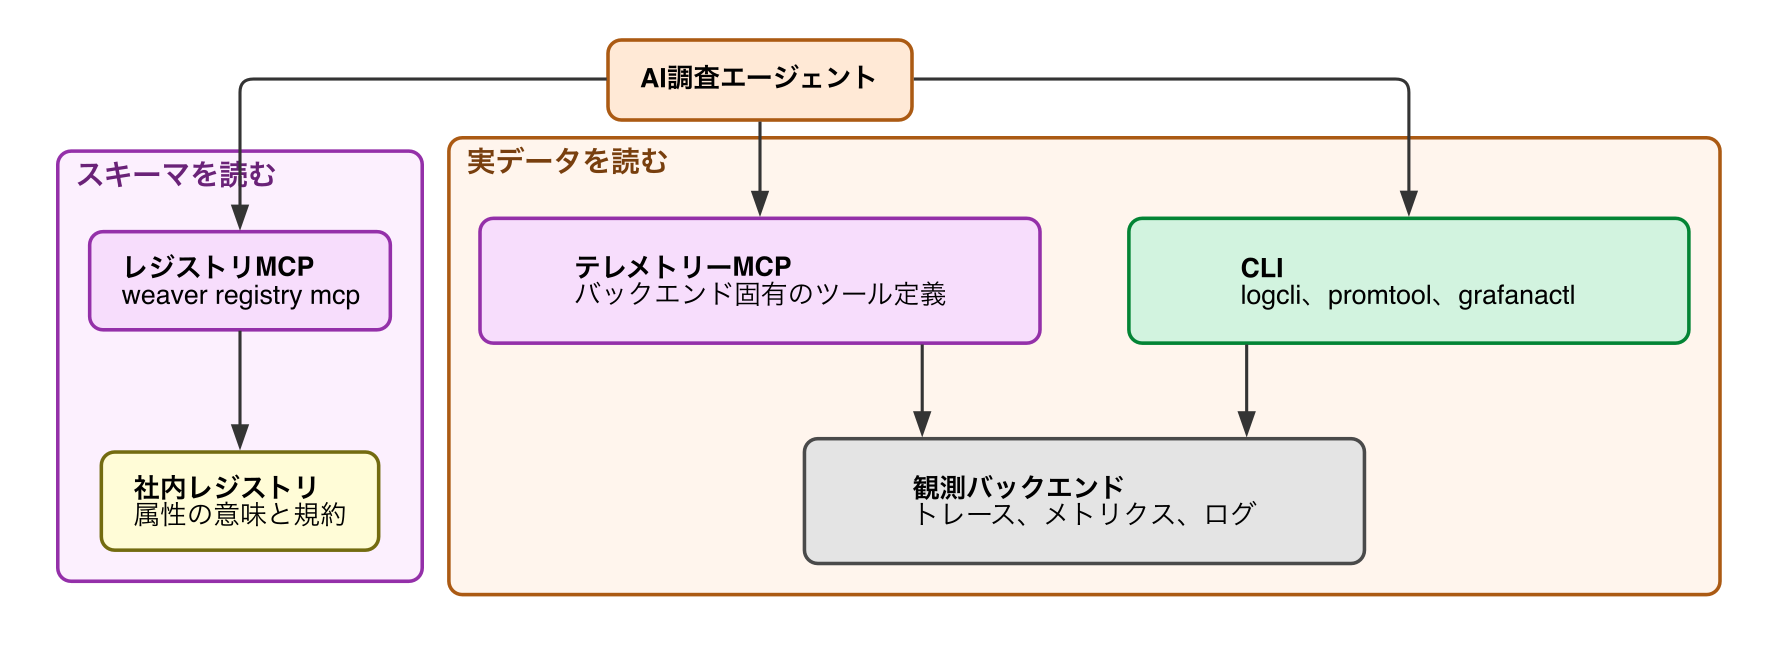
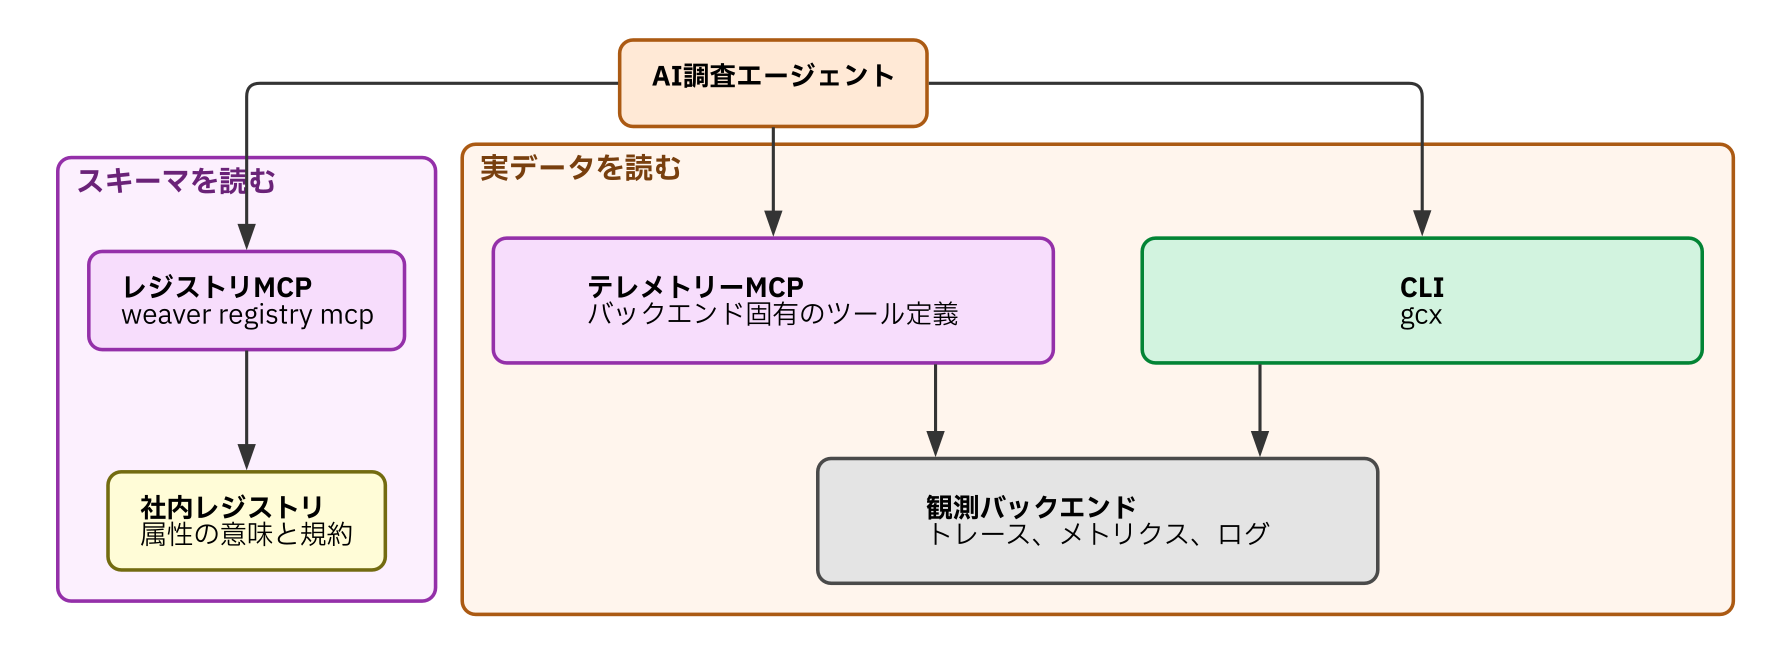
docs(otel): レビュー指摘を反映する
- はじめに: 三本柱対比図を中央集権モデルの限界節へ移動し、図番号を振り直す
- はじめに: 三本柱の表をセル内箇条書き（<br>区切り）に変更する
- Collectorフリート: 図中のOpAMPサーバーの説明を「最後の配達区間」から
  「最後のデリバリー区間」へ変更する
- AI駆動運用: CLIの説明をlogcli/promtool/grafanactlの列挙からgcxのみに統一する

Changed region(s): [[0.0309, 0.0612, 0.9899, 0.9174], [0.6805, 0.3976, 0.8971, 0.4893]]

diff --git a/books/observability-platform-with-otel/00-introduction.md b/books/observability-platform-with-otel/00-introduction.md
@@ -22,6 +22,9 @@ title: "はじめに"
 
 このモデルは、組織が小さいうちは機能します。しかし、中央チームの処理能力が変わらないまま、依頼はチーム数とサービス数に応じて増えます。レビュー待ちを避けるために各チームが独自の設定を使い始めると、統一のために置いた中央チームが、かえって不統一を増やします。統制を強めれば待ち時間が延び、緩めれば一貫性を保てません。
 
+![中央集権モデルとセルフサービスモデルの対比](/images/20260926-central-vs-selfservice.png)
+*図1　矢印は依頼先を表します。中央集権モデルでは依頼が中央チームに集中します。セルフサービスモデルでは各チームがプラットフォームチームの配布物を利用するため、個別依頼の待ち行列を減らせます。*
+
 ## セルフサービスという考え方
 
 Platform Engineeringでは、プラットフォームチームの仕事を、個別の依頼の処理から、各チームが自力で適切に設定できる仕組みの提供へ変えます。本書では、この提供形態を**セルフサービス**と呼びます。
@@ -39,20 +42,20 @@ Platform Engineeringでは、プラットフォームチームの仕事を、個
 本書は、OpenTelemetryを使った実装の経験を前提としません。議論に必要なのは、テレメトリーが生まれてから保存されるまでの一連の流れです。
 
 ![OpenTelemetryの最小構成](/images/20260926-minimal-otel.png)
-*図1　実線の矢印はテレメトリーの流れ、点線はサービス間のリクエストを表します。リクエストにはトレースの文脈が載ります。計装されたサービスが作ったテレメトリーは、OTLPでCollectorを経由してバックエンドに届きます。*
+*図2　実線の矢印はテレメトリーの流れ、点線はサービス間のリクエストを表します。リクエストにはトレースの文脈が載ります。計装されたサービスが作ったテレメトリーは、OTLPでCollectorを経由してバックエンドに届きます。*
 
 **計装**（instrumentation）は、アプリケーションにテレメトリーを生成させる仕組みです。主なテレメトリーには、リクエスト処理の流れを記録する**トレース**、数値の推移を記録する**メトリクス**、処理中の出来事を記録する**ログ**があります。
 
 トレースを構成する単位が**スパン**です。1つのスパンは、あるサービスでの処理や外部呼び出しなど、1つの作業区間の開始時刻、終了時刻、属性を記録します。呼び出し元のスパンを親としてつなぐことで、1つのトレースを構成します。冒頭では、次のつながりが在庫サービスの手前で切れていました。
 
 ![破断した分散トレースのウォーターフォール](/images/20260926-broken-trace-waterfall.png)
-*図2　フロントエンドから注文サービスまではトレースAとしてつながっています。在庫サービスのスパンだけがトレースBに分かれ、親子関係が破断しています。*
+*図3　フロントエンドから注文サービスまではトレースAとしてつながっています。在庫サービスのスパンだけがトレースBに分かれ、親子関係が破断しています。*
 
 各サービスは自分のスパンを送信し、保存先が親子関係をもとにトレースを組み立てます。テレメトリーには、送信元を表す**リソース（resource）属性**が付きます。サービス名を表す `service.name` や環境の識別子もリソース属性です。
 
 テレメトリーを送り出す部品を **エクスポーター**（exporter） と呼びます。エクスポーターがOTLPという標準プロトコルで送信し、Collectorという中継プロセスを経て、保存と可視化を担うバックエンドに届きます。
 
-図1の点線は、冒頭の分断に関係する通信を表します。分散トレースでは、サービスAがサービスBを呼ぶときに、現在のトレースを識別する文脈をリクエストに載せて渡します。この受け渡しを担う部品が **プロパゲーター（propagator）** です。プロパゲーターが設定されていないサービスでは親子関係を引き継げず、別のトレースとして記録されます。
+図2の点線は、冒頭の分断に関係する通信を表します。分散トレースでは、サービスAがサービスBを呼ぶときに、現在のトレースを識別する文脈をリクエストに載せて渡します。この受け渡しを担う部品が **プロパゲーター（propagator）** です。プロパゲーターが設定されていないサービスでは親子関係を引き継げず、別のトレースとして記録されます。
 
 本書では個々のAPIの使い方は説明しません。以降では、計装から保存までのどこを変更するのかという対応関係を使って、基盤の構成を説明します。
 
@@ -67,18 +70,15 @@ Platform Engineeringでは、プラットフォームチームの仕事を、個
 3つ目はセマンティック規約のガバナンスです。属性の名前と意味をレジストリに定義し、OpenTelemetry Weaverで検査、コード生成、実際のテレメトリーとの照合を自動化します（6章）。これにより、冒頭の `prod` と `production` のような表記揺れを検出します。
 
 ![3本柱の全体像](/images/20260926-three-pillars.png)
-*図2　実線の矢印はテレメトリーの流れ、点線はレジストリから生成した成果物が届く先を表します。三本柱が計装から保存までのどこを変更するかを示します。*
-
-![中央集権モデルとセルフサービスモデルの対比](/images/20260926-central-vs-selfservice.png)
-*図3　矢印は依頼先を表します。中央集権モデルでは依頼が中央チームに集中します。セルフサービスモデルでは各チームがプラットフォームチームの配布物を利用するため、個別依頼の待ち行列を減らせます。*
+*図4　実線の矢印はテレメトリーの流れ、点線はレジストリから生成した成果物が届く先を表します。三本柱が計装から保存までのどこを変更するかを示します。*
 
 セルフサービスの設計では、誰が何を決めるのかを明示します。次の表は、三本柱ごとに、プラットフォームが配るもの、開発チームが決めること、基盤が強制すること、標準構成から逸脱する方法を整理したものです。表の語は各章で説明するので、ここでは全体の形だけを見てください。
 
 | 柱 | プラットフォームが配るもの | 開発チームが決めること | 基盤が強制すること | 逸脱の方法 |
 |---|---|---|---|---|
-| 計装 | SDKディストリビューション、ゼロコード計装、デフォルト値 | 業務スパンと属性、任意で記録するデータ | 最低限のリソース属性とトレース文脈の伝搬 | 標準環境変数と明示設定 |
-| Collector | バイナリ、パイプライン、更新経路 | 許可された範囲の追加要件 | 認証、個人情報と機密情報の削除、容量制御 | 分離した追加パイプラインまたは別Collector |
-| 規約 | レジストリ、生成物、検査 | ドメイン属性の意味 | 名前空間、型、互換性 | レジストリへの変更PR |
+| 計装 | ・SDKディストリビューション<br>・ゼロコード計装<br>・デフォルト値 | ・業務スパンと属性<br>・任意で記録するデータ | ・最低限のリソース属性<br>・トレース文脈の伝搬 | ・標準環境変数<br>・明示設定 |
+| Collector | ・バイナリ<br>・パイプライン<br>・更新経路 | ・許可された範囲の追加要件 | ・認証<br>・個人情報と機密情報の削除<br>・容量制御 | ・分離した追加パイプライン<br>・別Collector |
+| 規約 | ・レジストリ<br>・生成物<br>・検査 | ・ドメイン属性の意味 | ・名前空間<br>・型<br>・互換性 | ・レジストリへの変更PR |
 
 三本の柱は相互に依存します。ディストリビューションはレジストリから生成した属性定数を同梱し、Collectorは転送中のデータを規約に照らして処理します。レジストリの変更は、ディストリビューションとCollector設定の配布経路を通じて各環境へ届きます。この依存関係まで含めて、Platform Engineeringとして設計します。
 

diff --git a/books/observability-platform-with-otel/70-ai_driven_operations.md b/books/observability-platform-with-otel/70-ai_driven_operations.md
@@ -67,7 +67,7 @@ GenAI規約の専用リポジトリには、[MCPのセマンティック規約](
 
 調査用のAIエージェントには読み取り権限だけを与え、テナント分離はバックエンドの権限で強制し、アクセスを監査ログへ残します。人間と同じデータアクセス経路を使うことで、既存の認可と監査を再利用できます。
 
-MCPサーバー以外に、CLIツールもアクセス手段になります。[logcli](https://grafana.com/docs/loki/latest/query/logcli/)はLokiへLogQLのクエリを発行し、[promtool](https://github.com/prometheus/prometheus/tree/main/cmd/promtool)はPromQLの検証とクエリの実行を行い、[grafanactl](https://github.com/grafana/grafanactl)はダッシュボードなどのリソースを操作します。
+MCPサーバー以外に、CLIツールもアクセス手段になります。Grafanaの[gcx](https://grafana.com/docs/grafana/latest/as-code/observability-as-code/grafana-cli/gcx/)は、1つのコマンドでメトリクス、ログ、トレース、プロファイルを検索でき、ダッシュボードなどのリソースも操作できます。出力はJSONやYAMLで受け取れるため、AIエージェントが結果を解析しやすくなります。
 
 CLIには、MCPサーバーと比べて3つの利点があります。
 
@@ -75,7 +75,7 @@ CLIには、MCPサーバーと比べて3つの利点があります。
 - **人間とAIエージェントが同じコマンドを使える。** AIエージェントが発行したコマンドをそのまま人間が再実行して確認できる。MCPのツール呼び出しは、人間が手元で再現しにくい
 - **シェルを扱えるAIエージェントなら追加の実装がいらない。** コーディングエージェントはコマンド実行の機能を持っているため、接続の設定なしに使い始められる
 
-一方、出力が人間向けの整形である点、ページングや部分取得を自分で組み立てる必要がある点は、MCPサーバーのほうが扱いやすくなります。テレメトリーの量が多い調査ではMCP、手元での確認や再現ではCLIと、両方を用意します。
+一方、ページングや部分取得を自分で組み立てる必要がある点は、MCPサーバーのほうが扱いやすくなります。テレメトリーの量が多い調査ではMCP、手元での確認や再現ではCLIと、両方を用意します。
 
 なお、CLIをAIエージェントに渡す場合も権限の扱いは同じです。読み取り専用のトークンを使い、書き込みを伴うサブコマンドは許可しません。
 
